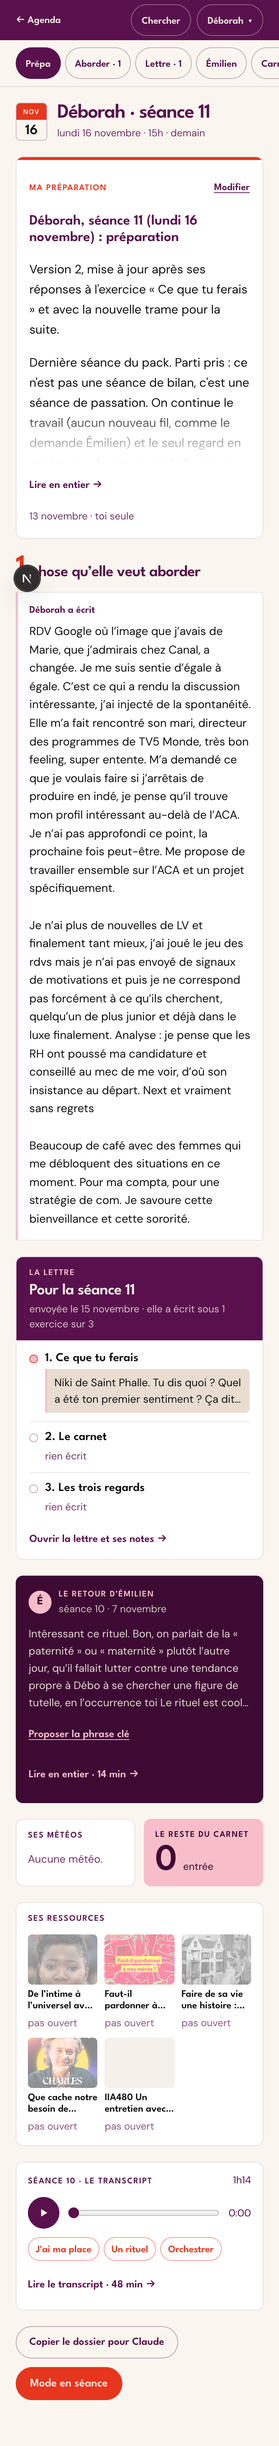
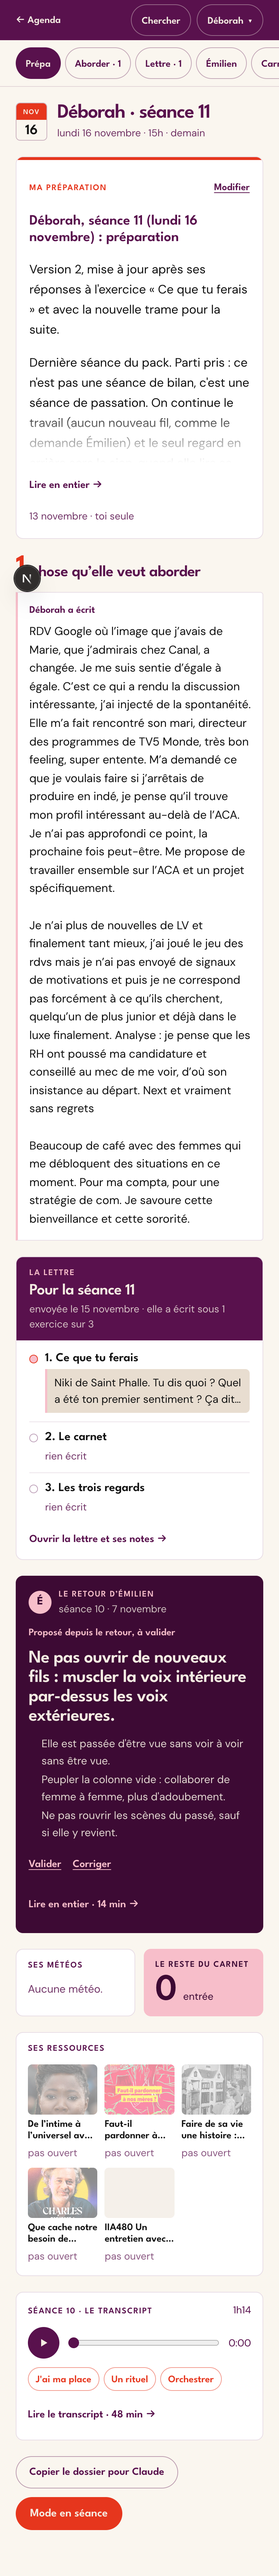
Phrases clés proposées pour les 19 retours d'Émilien, puces des trois points

diff --git a/src/components/coach/PhraseCle.tsx b/src/components/coach/PhraseCle.tsx
@@ -65,7 +65,7 @@ export function PhraseCle({ retourId, disponible, phrase, points, phraseProposee
           {propose ? <p className="m-0 font-titre text-[14px] font-semibold text-rose">Proposé depuis le retour, à valider</p> : null}
           {montree.phrase?.trim() ? <p className="m-0 font-titre text-[25px] font-semibold leading-[1.08] tracking-[-0.02em] text-creme">{montree.phrase}</p> : null}
           {montree.points.length ? (
-            <ul className="m-0 flex flex-col gap-0.5 pl-[18px] text-[15px] leading-[1.6] text-creme/90">
+            <ul className="m-0 flex list-disc flex-col gap-0.5 pl-[18px] text-[15px] leading-[1.6] text-creme/90">
               {montree.points.map((p) => (
                 <li key={p}>{p}</li>
               ))}

diff --git a/docs/EN-COURS.md b/docs/EN-COURS.md
@@ -243,13 +243,14 @@ Maquettes dans design/ecrans, elles priment pour le dessin : L-v3-avant-la-seanc
   - [x] Jetons --carte (#FFFFFF) et --carte-filet (rgba 89,17,77 / .14) et classe carte-blanche dans globals.css ; passés en blanc bordé : voix de la cliente (filet rose), Ma préparation (filet rouge), lettre, transcript, météos, ressources, note de parcours, zones d'écriture côté cliente, champs longs, volet de sources, bloc des trois mots, « Pour te souvenir », cartes de l'espace cliente (lettre, carnet, ressources), emails (fond papier, carte blanche). Restent en beige : Pourquoi ça compte, bandeau « à dater et nommer », petit lecteur, extraits de deux lignes, vignettes vides. Vérifié sur les captures 390 et 1280 px (commit local)
   - Remarque : le brief recollé le 15 novembre au soir s'arrête au milieu du point 4 ; la suite (points 5 à 7, temps 2) est supposée inchangée
 ### Temps 1, dans cet ordre
-- [ ] 1. Avant la séance : une carte par contenu (Ma préparation beige à filet rouge en tête, fixe à gauche sur ordinateur ; Ce qu'elle veut aborder avec compteur rouge et voix de la cliente ; La lettre à bandeau violet, une ligne par exercice avec pastille pleine ou vide et extrait de sa note ; Retour d'Émilien en carte violet nuit, phrase clé, trois points, « Lire en entier » ; Météos en pastilles ; Reste du carnet en carte rose avec compteur ; Ressources avec vignettes et état ; Transcript avec lecteur, trois mots, « Lire »). Barre de sections collante sur téléphone, grille sur ordinateur. « Copier le dossier pour Claude » et « Mode en séance » en bas sur téléphone, en haut à droite sur ordinateur (« Mode en séance » : bouton présent, écran au temps 2)
+- [x] 1. Avant la séance : une carte par contenu (Ma préparation beige à filet rouge en tête, fixe à gauche sur ordinateur ; Ce qu'elle veut aborder avec compteur rouge et voix de la cliente ; La lettre à bandeau violet, une ligne par exercice avec pastille pleine ou vide et extrait de sa note ; Retour d'Émilien en carte violet nuit, phrase clé, trois points, « Lire en entier » ; Météos en pastilles ; Reste du carnet en carte rose avec compteur ; Ressources avec vignettes et état ; Transcript avec lecteur, trois mots, « Lire »). Barre de sections collante sur téléphone, grille sur ordinateur. « Copier le dossier pour Claude » et « Mode en séance » en bas sur téléphone, en haut à droite sur ordinateur (« Mode en séance » : bouton présent, écran au temps 2)
   - [x] Codé (commit local 3cdffae), build et lint : cartes selon L v3, préparation fixe à gauche sur ordinateur, barre de sections collante (téléphone), liseuse à onglets, « Mode en séance » présent (annonce le temps 2)
   - [x] Migration 0006 : retours.phrase_cle (text) et retours.points_cles (text[], trois au plus), proposés depuis le retour puis validés par Cloé ou Émilien (même mécanique que les trois mots) ; tant qu'ils sont vides, les premières lignes du retour. Montrée à Cloé avant application
     - [x] supabase/migrations/0006_phrase_cle.sql écrite et testée sur une base temporaire (0001 à 0006) : quatre points refusés, la cliente ne lit ni n'écrit rien, la proposition s'efface quand Émilien réécrit son retour, la version validée reste. Ajout par rapport au brief : deux colonnes de proposition (phrase_cle_proposee, points_cles_proposes), nécessaires pour « proposé puis validé »
     - [x] Proposition automatique quand Émilien envoie son retour, bouton « Proposer la phrase clé » sur la carte, « Valider » et « Corriger » (Cloé et Émilien) ; avant la migration, la carte montre le début du retour et aucun bouton
     - [x] Validation de Cloé, puis application dans SQL Editor (15 novembre)
-    - [ ] Propositions pour les 19 retours existants (après la migration)
+    - [x] Propositions pour les 19 retours existants (15 novembre) : lues par Claude dans chaque retour, contrôlées (phrase de 15 mots au plus, trois points de 12 mots au plus, pas de tiret cadratin), enregistrées comme propositions, rien de validé. À valider ou corriger par Cloé ou Émilien sur la carte du retour (« Avant la séance »)
+    - Signalé à la lecture : Déborah 5 semble coupé (finit par un titre isolé) ; l'en-tête de Déborah 9 dit « Flora 9 » ; Vanessa 2 reprend Vanessa 1 puis contient un « plan d'accompagnement » adressé à Vanessa, avec du vocabulaire médical, qui ne ressemble pas à Émilien ; « Débo » apparaît dans Vanessa 4 et « Flora » dans Vanessa 5 ; Déborah 10 : la prudence d'Émilien sur une scène très sensible est reprise en termes neutres
   - [x] Captures 390 px et 1280 px (design/captures-fluidite/1-*), session locale ouverte avec l'accord de Cloé le 15 novembre. Corrigés après captures : la page plantait (calcul du temps de lecture appelé côté serveur), la préparation de Cloé, longue, est repliée sur téléphone (« Lire en entier ») et défile dans sa colonne sur ordinateur, barre de sections et « Lire en entier » masqués sur ordinateur, carte des ressources élargie
   - [x] Liseuse vérifiée dans le navigateur : quatre onglets, « Suivant : le transcript », position de lecture retrouvée en revenant sur un onglet
   - [x] Push
